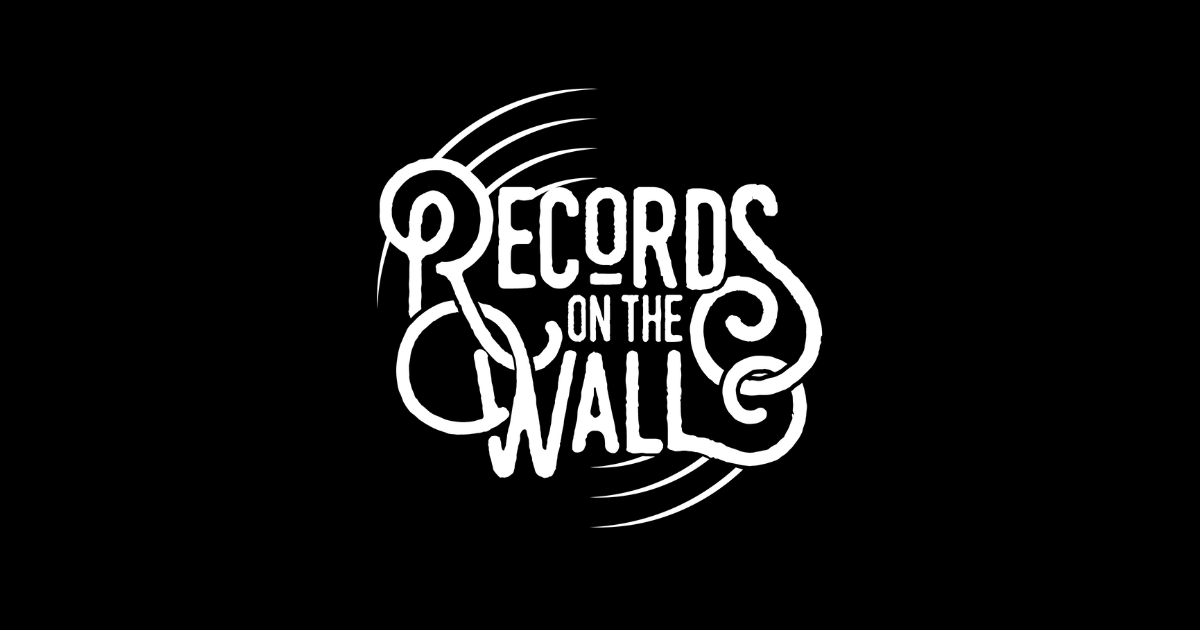
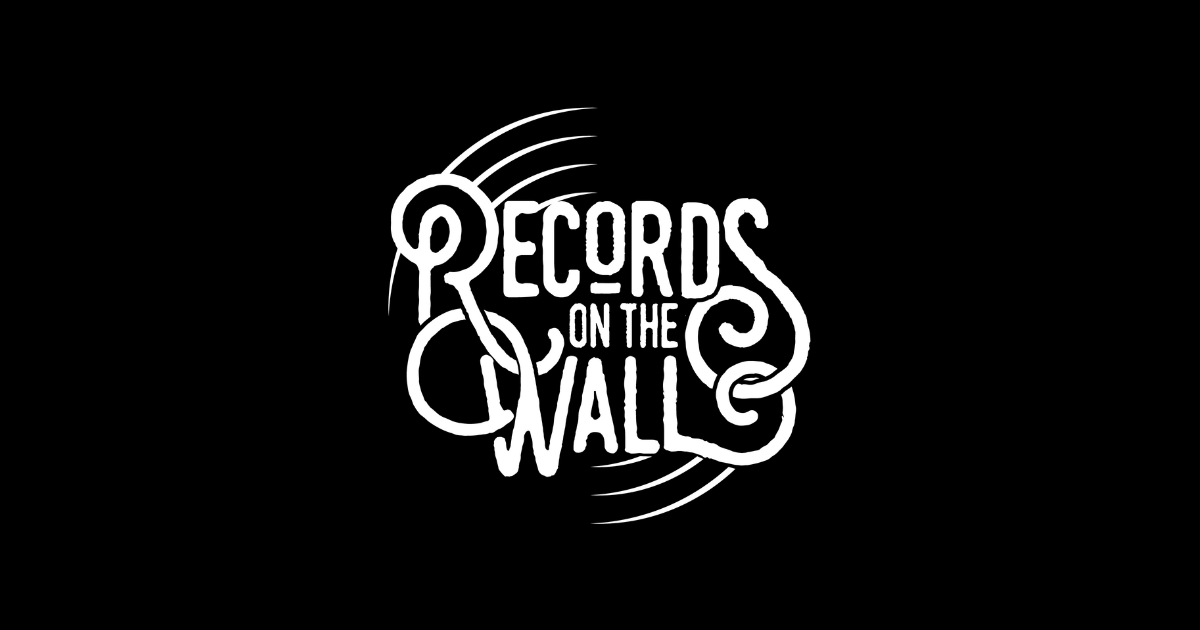
fixed public open-graph png

Changed region(s): [[0.3083, 0.1206, 0.7092, 0.8143], [0.4933, 0.7841, 0.555, 0.8444]]

diff --git a/app/shows/layout.tsx b/app/shows/layout.tsx
@@ -10,7 +10,7 @@ export const metadata: Metadata = {
     siteName: 'Records On The Wall',
     images: [
       {
-        url: '/open-graph-2.png', // You can create a specific image for shows
+        url: '/open-graph.png', // You can create a specific image for shows
         width: 1200,
         height: 630,
       },
@@ -22,7 +22,7 @@ export const metadata: Metadata = {
     card: 'summary_large_image',
     title: 'Upcoming Shows • Records On The Wall',
     description: 'Buy tickets to all of our upcoming shows in Charlotte, NC and Denver, CO.',
-    images: ['/open-graph-2.png'],
+    images: ['/open-graph.png'],
   },
 };
 

diff --git a/app/layout.tsx b/app/layout.tsx
@@ -41,7 +41,7 @@ export const metadata: Metadata = {
     siteName: 'Records On The Wall',
     images: [
       {
-        url: '/open-graph-2.png', // Path to your open graph image
+        url: '/open-graph.png', // Path to your open graph image
         width: 1200,
         height: 630,
       },
